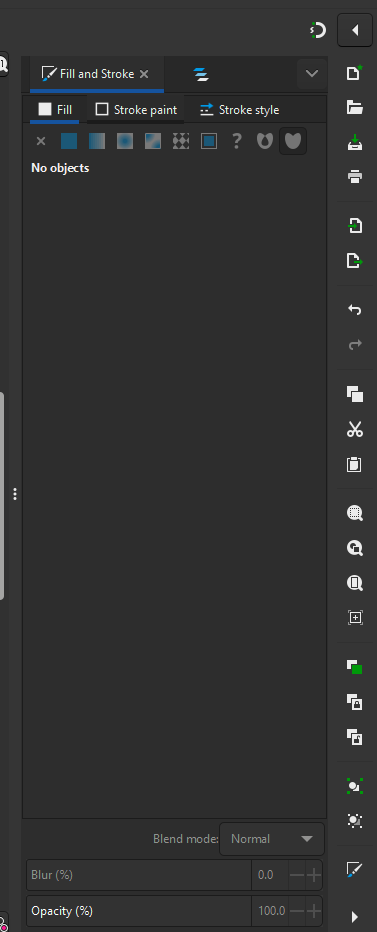
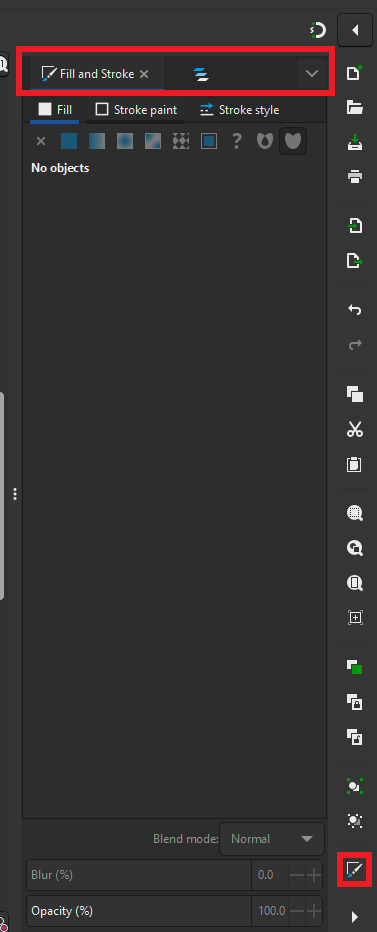
code for vector inkscape

Changed region(s): [[0.0292, 0.0311, 0.9045, 0.1245], [0.8753, 0.9024, 0.992, 0.9646]]

diff --git a/vector.html b/vector.html
@@ -39,10 +39,103 @@
 
         <div id="content">
             <div id="header">
-                <h1>Converting Raste Image to a Vector Logo</h1>
+                <h1>Converting Raster Image to a B&W Vector Logo</h1>
             </div>
 
             <div id="main-vector">
+                
+                <p> For this assignment, we were tasked to pick a animal image and convert it into a B&W vector logo.
+                </p>
+
+                <div class="vector-content">
+                    <div class="dog-image">
+                        <p>I picked a dog because I love dogs so I found a corgi dog image because they are so cute to make a vector logo out of it:</p>
+                        <a href="corgi pic.jpg"><img src="images/vector_images/corgi pic.jpg" height="270px" ></a>
+
+                    </div>
+    
+                    <div class="video-embed">
+                        <p>I also used this video as reference:</p>
+                        <iframe width="460" height="315" src="https://www.youtube.com/embed/s-kPg4vYKfk" title="YouTube video player" frameborder="0" allow="accelerometer; autoplay; clipboard-write; encrypted-media; gyroscope; picture-in-picture" allowfullscreen></iframe>
+                        
+                    </div>
+
+                </div>
+
+                <h2>What is Inkscape?</h2>
+
+
+                <div id="main-image">
+                    <h2>Let's get Started!</h2>
+                    <p>We need to create a new document first in Inkscape. Afterwards drag the dog image into the new document.</p>
+                    <div class="vector-content">
+                        <div class="move-image">
+                            <p>After which you can move the image into the document page</p>
+                            <a href="corgi pic.jpg"><img src="images/vector_images/dragphoto.png" height="270px" ></a>
+    
+                        </div>
+        
+                        <div class="popup-move">
+                            <p>A pop up window will come out and make these amendments shown:</p>
+                            <a href="corgi pic.jpg"><img src="images/vector_images/dragpphoto_popup.png" height="250px" ></a>
+                            
+                        </div>
+    
+                    </div>
+
+                    <p>Then go to View > Zoom > Zoom 1:1 on the top left corner to zoom closer to the image.</p>
+                    <a href="corgi pic.jpg"><img src="images/vector_images/zoom.png" height="250px" ></a>
+
+                </div>
+
+                <div id="main-drawing">
+                    <h2>Now we can start drawing!</h2>
+                    <div class="vector-content">
+                        <div class="tab-content">
+                            <p>Click on the edit button to open Fill and Stroke and it should appear on the left side which you should have 2 tabs one for layers and the other Fill and Stroke.</p>
+                            
+                        </div>
+                        
+                        <div class="tab-image">
+                            <a href="corgi pic.jpg"><img src="images/vector_images/2tabs.png" width="300px" height="600px" ></a>
+                            
+                        </div>
+    
+                    </div>
+                    
+
+                    <p>Bring the opacity of the image down abit by clicking the image and draging the opacity in Fill & Stroke tab.</p>
+                    <a href="corgi pic.jpg"><img src="images/vector_images/opacity.png" height="400px" ></a>
+
+                    <p>Create a new layer by clicking the '+' sign and put itt above the current layer.</p>
+                    <a href="corgi pic.jpg"><img src="images/vector_images/addlayer.png" height="250px" ></a>
+
+                    <p>You can start tracing using the bevel tool. I start to trace out the nose first.</p>
+                    <a href="corgi pic.jpg"><img src="images/vector_images/tracenose.png" height="400px" ></a>
+
+                    <p>Then using the select tool, select the object that you have traced and choose a color.</p>
+                    <a href="corgi pic.jpg"><img src="images/vector_images/color nose.png" height="400px" ></a>
+
+                    <p>Making a new layer, I made the eyes using the circle tool and then coloring the eyes. You can also reorder the layer to overlay certain objects.</p>
+                    <a href="corgi pic.jpg"><img src="images/vector_images/traceeyes.png" height="400px" ></a>
+
+                    <p>Continue creating new layers and tracing the mouth and head of the dog. You can also rename the layers to the parts of the dogs eyes, nose and head.</p>
+                    <a href="corgi pic.jpg"><img src="images/vector_images/trace_everything.png" height="400px" ></a>
+
+                    <p>Once your done, create a new layer to make the shape for your logo. I used the polygon tool to make my logo</p>
+                    <a href="corgi pic.jpg"><img src="images/vector_images/making logo.png" height="400px" ></a>
+
+                    <p>Then color your logo.</p>
+                    <a href="corgi pic.jpg"><img src="images/vector_images/finishedlogo.png" height="400px" ></a>
+
+                    <p>Once your done, you are ready to export your logo. Go to file > export and export it as png.</p>
+                    <a href="corgi pic.jpg"><img src="images/vector_images/export.png" height="400px" ></a>
+
+                    <p>And there you go this is the final product.</p>
+                    <a href="corgi pic.jpg"><img src="images/vector_images/dog_logo.png" height="400px" ></a>
+
+
+                </div>
 
             </div>
         </div>

diff --git a/style.css b/style.css
@@ -1070,3 +1070,18 @@ li.dropdown-menu-vector {
   text-align: center;
   font-family: 'K2D', sans-serif;
 }
+
+.vector-content {
+  display: grid;
+  grid-template-columns: auto auto ;
+  column-gap: 2px;
+  padding: 10px;
+}
+
+.vector-content > div {
+  
+  text-align: center;
+  padding: 20px ;
+ 
+}
+
